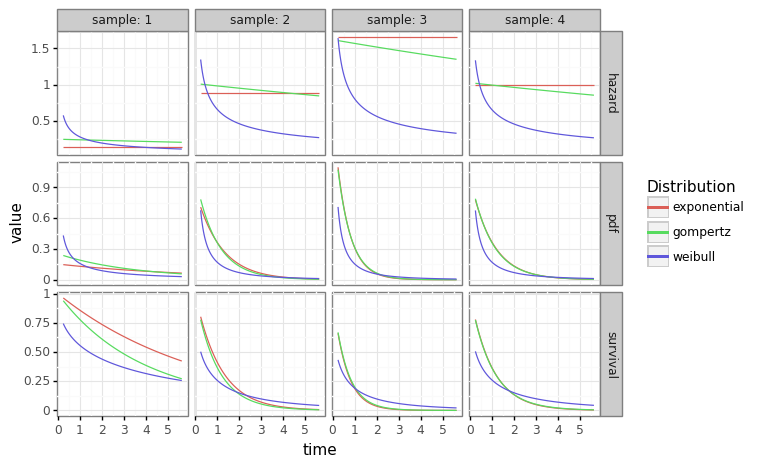
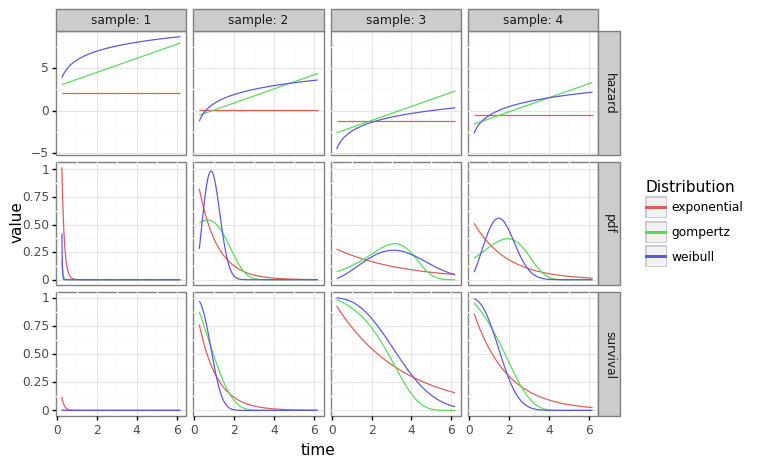
adding basic usage

diff --git a/examples/basic_usage.py b/examples/basic_usage.py
@@ -3,6 +3,7 @@ Show how to fit a regularized model on a toy dataset
 """
 
 # Load modules
+import os
 import numpy as np
 import pandas as pd
 import plotnine as pn
@@ -10,7 +11,7 @@ from scipy import stats
 from paranet.models import parametric
 
 # (i) Create a toy dataset
-n, p, seed = 100, 5, 2
+n, p, seed = 100, 5, 3
 x = stats.norm().rvs([n,p],seed)
 shape = 2
 b0 = 0.25
@@ -21,7 +22,7 @@ t = (-np.log(stats.uniform().rvs(n,seed))/scale)**(1/shape)
 d = np.ones(n)
 
 # (ii) Fit the (unregularized) model
-mdl = parametric(dist=['exponential', 'weibull', 'gompertz'], x=x, t=t, d=d, scale_t=False, scale_t=False)
+mdl = parametric(dist=['exponential', 'weibull', 'gompertz'], x=x, t=t, d=d, scale_x=False, scale_t=False)
 mdl.fit()
 
 # (iii) Plot the individual survival, hazard, and density functions for five "new" observations
@@ -32,7 +33,7 @@ x_new = stats.norm().rvs([n_new,p],seed)
 
 # We can at look at the hazard for first out-of-sample individual
 # Notice that for the exponential distribution (first column) the hazard is independent of time which is as expected
-print(mdl.hazard(t_range, x_new[[0]]))
+print(np.log(mdl.hazard(t_range, np.tile(x_new[[0]],[n_points,1]))).round(2))
 
 # We can then comprehensively calculate this for each method
 methods = ['hazard', 'survival', 'pdf']
@@ -41,6 +42,8 @@ for j in range(n_new):
     x_j = np.tile(x_new[[j]],[n_points,1])
     for method in methods:
         res_j = getattr(mdl, method)(t_range, x_j)
+        if method == 'hazard':
+            res_j = np.log(res_j)
         res_j = pd.DataFrame(res_j, columns = mdl.dist).assign(time=t_range,method=method, sample=j+1)
         holder.append(res_j)
 
@@ -51,5 +54,4 @@ gg_res = (pn.ggplot(res, pn.aes(x='time', y='value', color='dist')) +
     pn.theme_bw() + pn.geom_line() + 
     pn.scale_color_discrete(name='Distribution') + 
     pn.facet_grid('method~sample',scales='free',labeller=pn.labeller(sample=pn.label_both)))
-import os
 gg_res.save(os.path.join(os.getcwd(),'examples','basic_usage.png'), width=7, height=5)

diff --git a/README.md b/README.md
@@ -60,11 +60,13 @@ The code block below shows how to fit three parametric distributions to a single
 
 ```
 
+![toy_output](examples/basic_usage.png)
 
 ## (3) Probability distribution parameterization
 
 Each parametric survival distribution is defined by a scale ($\lambda$) and, except for the Exponential distribution, a shape ($\alpha$) parameter. Each distribution has been parameterized so that a higher value of the scale parameter indicates a higher "risk". The density functions are shown below. The scale and shape parameters must also be positive, except for the case of the Gompertz distribution where the shape parameter can be positive or negative.
 
+$$
 \begin{align*}
     f(t;\lambda, \alpha) &= \begin{cases}
         \lambda \exp\{ -\lambda t \}  & \text{ if Exponential} \\
@@ -72,7 +74,7 @@ Each parametric survival distribution is defined by a scale ($\lambda$) and, exc
         \lambda \exp\{ \alpha t \} \exp\{ -\frac{\lambda}{\alpha}(e^{\alpha t} - 1) \}  & \text{ if Gompertz} \\
     \end{cases}
 \end{align*}
-
+$$
 
 When moving from the univariate to the multivariate distribution, we assume that scale parameter takes is an exponential transform (to ensure positivity) of a linear combination of parameters ($\eta$). Optimization occurs by balancing the data likelihood with the magnitude of the coefficients ($R$), as is shown below. 
 
@@ -88,6 +90,7 @@ $$
 \end{align*}
 $$
 
+
 <br>
 
 ## (4) How is censoring calculated?
@@ -102,6 +105,8 @@ $$
 	\end{cases} \\
 	C &\sim \text{Exp}(\lambda_C) \\
 \end{align*}
+$$
+
 
 There are of course other processes that could generate censoring (such as EXAMPLE). The reason an exponential distribution is used in the censoring process is to allow for a (relatively) simple optimization problem of finding a single scale parameter ($\lambda_C$), which obtains an (asymptotic) censoring probability of $\phi$: 
 
@@ -130,11 +135,13 @@ Where $f_{i}(u)$ is the density of the target distribution evaluated at $u$, whe
 
 Unlike [`glmnet`](LINK), the `paranet` packages does not use coordinate descent (CD). Instead, this packages uses a smooth approximation of the L1-norm to allow for direct optimization with `scipy` (REF here) as shown below. Parametric survival models are not easily amenable to the iteratively-reweighted least squares (IRLS) approach used by `glmnet`, because of the presence of the shape parameter. In contract, an exponential model can be [easily fit](BLOG POST) leveraging existing CD-based elastic net solvers. Moving to proximal gradient descent would enable for direct optimization of the L1-norm loss and represents a possible future release.
 
+$$
 \begin{align*}
     R(\beta;\gamma,\rho) &= \gamma\big(\rho \| \beta_{1:} \|_1 + 0.5(1-\rho)\|\beta_{1:}\|_2^2\big) \\ 
     |\beta| &\approx \sqrt{\beta^2 + \epsilon} \\
     \frac{\partial R}{\partial \beta} &\approx \gamma\Bigg(\rho \frac{\beta}{\sqrt{\beta^2+\epsilon}} + (1-\rho)\beta\Bigg)
 \end{align*}
+$$
 
 <br>
 
